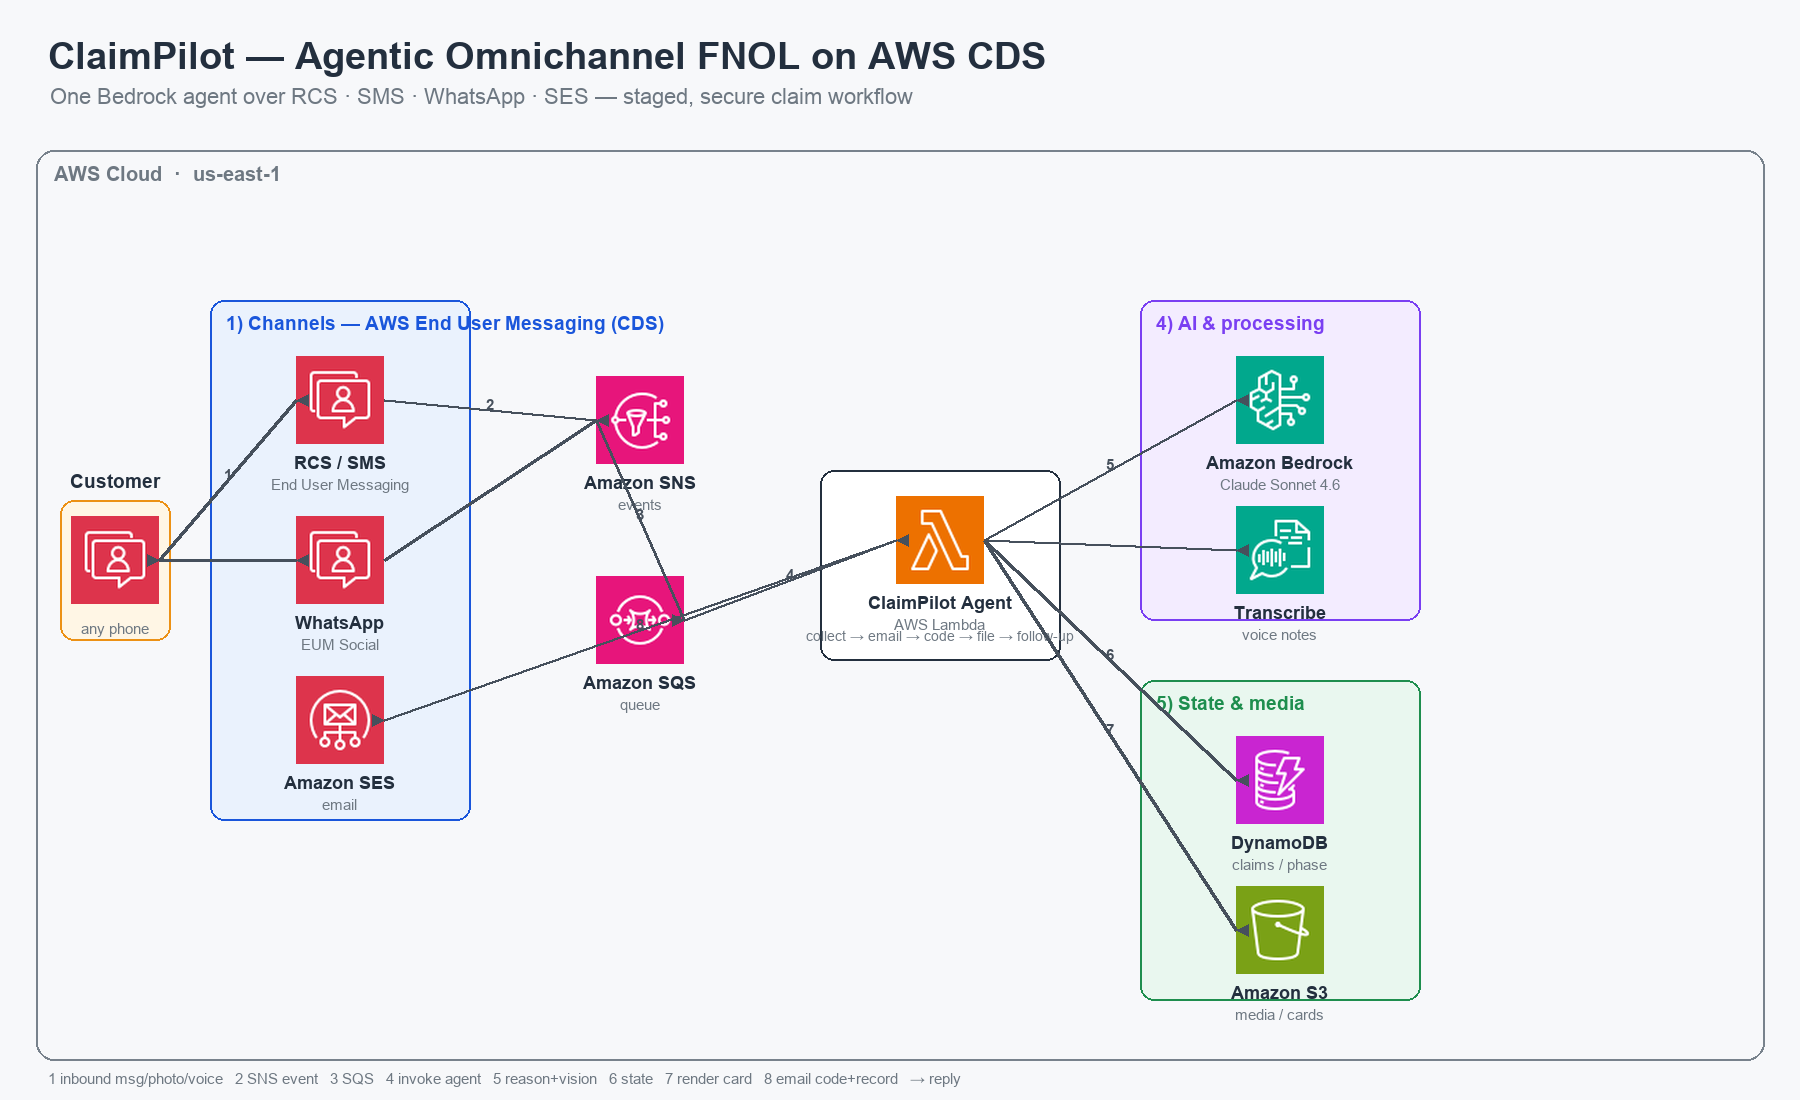
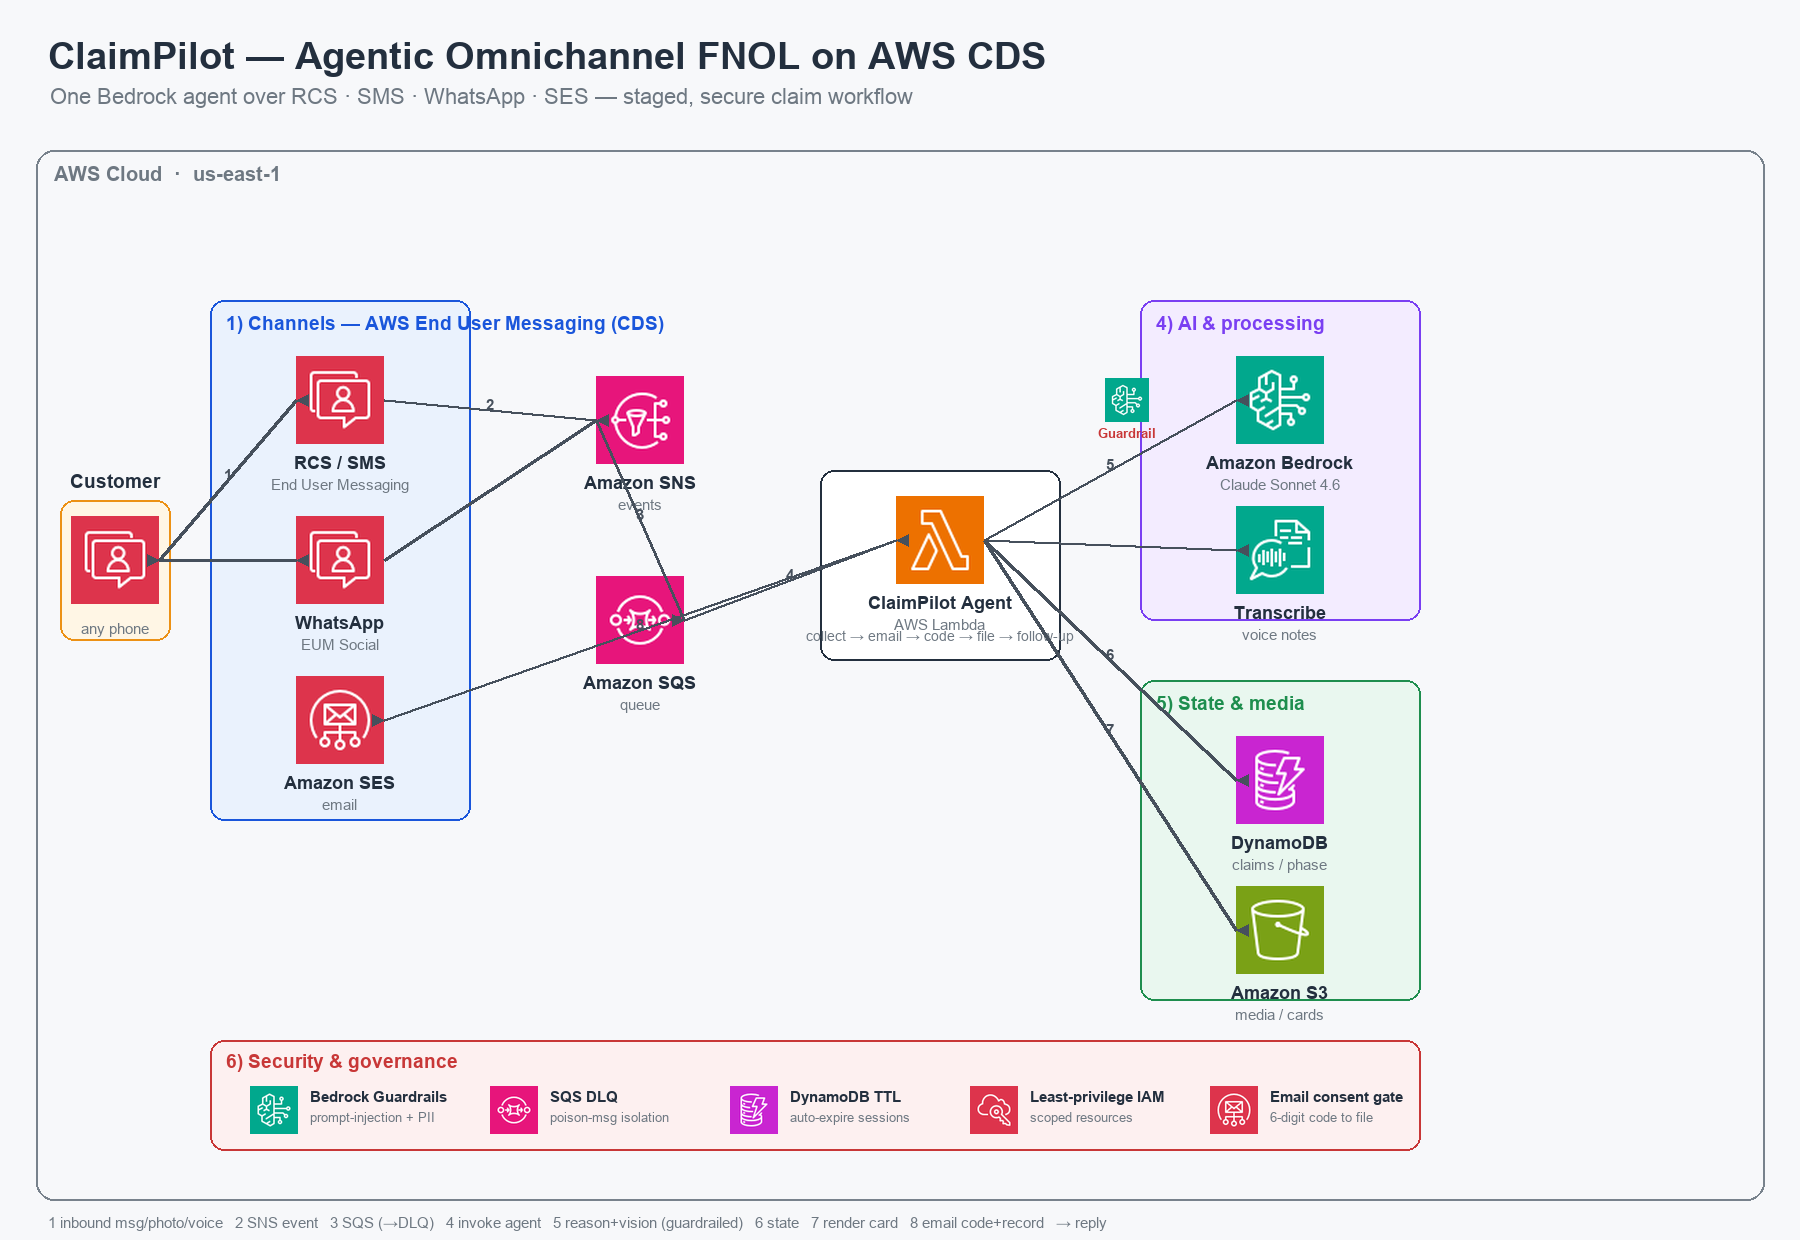
Add security & governance layer to architecture diagram (Guardrails, DLQ, TTL, IAM, consent gate)

diff --git a/infra/diagram/make_architecture.py b/infra/diagram/make_architecture.py
@@ -16,7 +16,7 @@ from PIL import Image, ImageDraw, ImageFont
 HERE = os.path.dirname(os.path.abspath(__file__))
 ICONS = os.path.join(HERE, "icons")
 
-W, H = 1800, 1100
+W, H = 1800, 1240
 BG = (247, 248, 250)
 INK = (35, 47, 62)          # AWS "squid ink"
 MUTED = (110, 120, 130)
@@ -26,11 +26,13 @@ GROUP_FILLS = {
     "channels": (234, 242, 253),
     "ai": (243, 236, 255),
     "data": (233, 247, 239),
+    "sec": (253, 240, 240),
 }
 GROUP_STROKE = {
     "channels": (26, 86, 219),
     "ai": (122, 63, 242),
     "data": (30, 142, 78),
+    "sec": (200, 55, 55),
 }
 ARROW = (70, 80, 92)
 
@@ -145,10 +147,36 @@ def main():
     arrow("lambda", "ses", "8")
     arrow("rcs", "cust")  # reply back
 
+    # guardrail badge on the Lambda -> Bedrock path
+    gx, gy = 1105, 400
+    gi = load_icon("guardrails")
+    img.paste(gi.resize((44, 44), Image.LANCZOS), (gx, gy - 22), gi.resize((44, 44), Image.LANCZOS))
+    d.text((gx + 22, gy + 26), "Guardrail", font=font(13, True), fill=(200, 55, 55), anchor="ma")
+
+    # --- Security & governance band (across the bottom, inside the cloud) ---
+    band = (210, 1040, 1420, 1150)
+    d.rounded_rectangle(band, radius=14, fill=GROUP_FILLS["sec"], outline=GROUP_STROKE["sec"], width=2)
+    d.text((band[0] + 16, band[1] + 10), "6) Security & governance",
+           font=font(19, True), fill=GROUP_STROKE["sec"])
+    sec_items = [
+        ("guardrails", "Bedrock Guardrails", "prompt-injection + PII"),
+        ("sqs", "SQS DLQ", "poison-msg isolation"),
+        ("dynamodb", "DynamoDB TTL", "auto-expire sessions"),
+        ("iam", "Least-privilege IAM", "scoped resources"),
+        ("ses", "Email consent gate", "6-digit code to file"),
+    ]
+    sx = band[0] + 40
+    for icon, title, sub in sec_items:
+        ic = load_icon(icon).resize((48, 48), Image.LANCZOS)
+        img.paste(ic, (sx, band[1] + 46), ic)
+        d.text((sx + 60, band[1] + 48), title, font=font(15, True), fill=INK)
+        d.text((sx + 60, band[1] + 70), sub, font=font(13), fill=MUTED)
+        sx += 240
+
     # legend / step key
-    steps = ("1 inbound msg/photo/voice   2 SNS event   3 SQS   4 invoke agent   "
-             "5 reason+vision   6 state   7 render card   8 email code+record   → reply")
-    d.text((48, H - 30), steps, font=font(15), fill=MUTED)
+    steps = ("1 inbound msg/photo/voice   2 SNS event   3 SQS (→DLQ)   4 invoke agent   "
+             "5 reason+vision (guardrailed)   6 state   7 render card   8 email code+record   → reply")
+    d.text((48, H - 26), steps, font=font(15), fill=MUTED)
 
     out = os.path.join(HERE, "claimpilot-architecture.png")
     img.save(out, "PNG")
